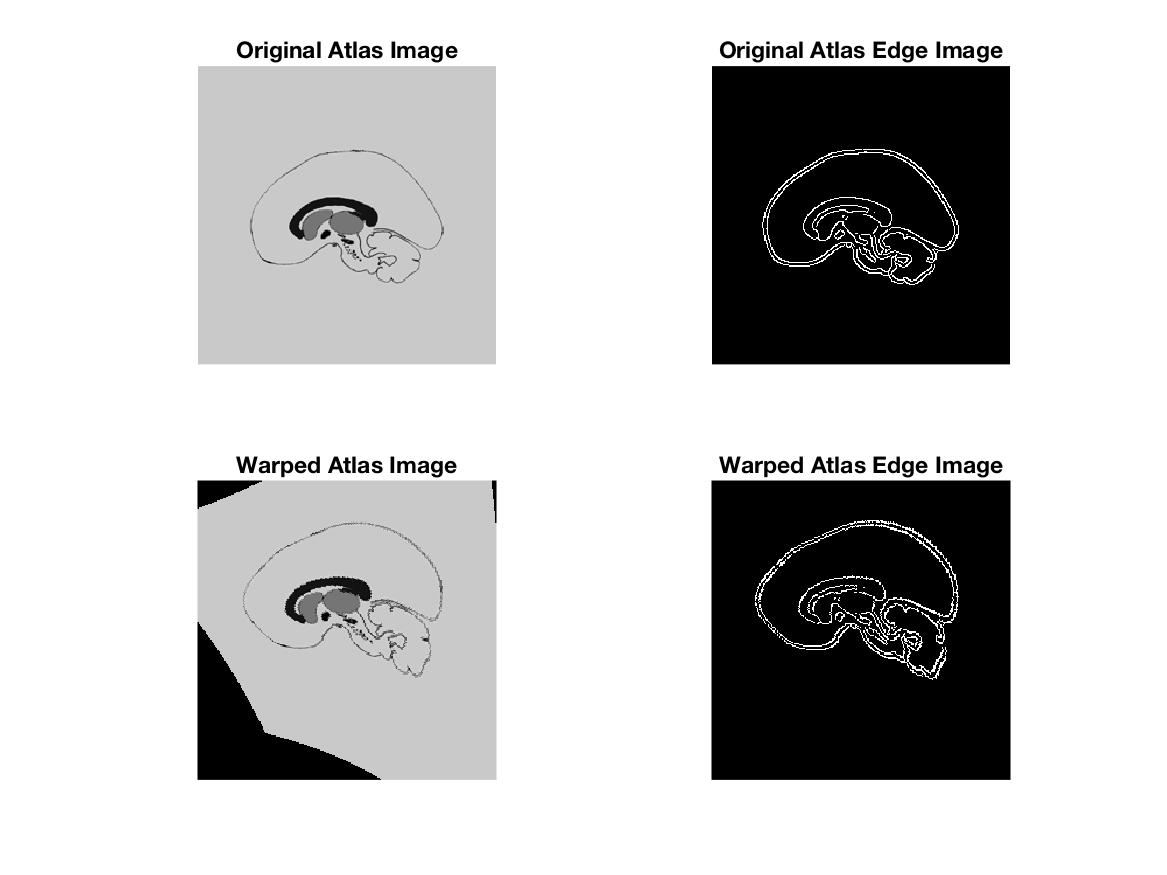
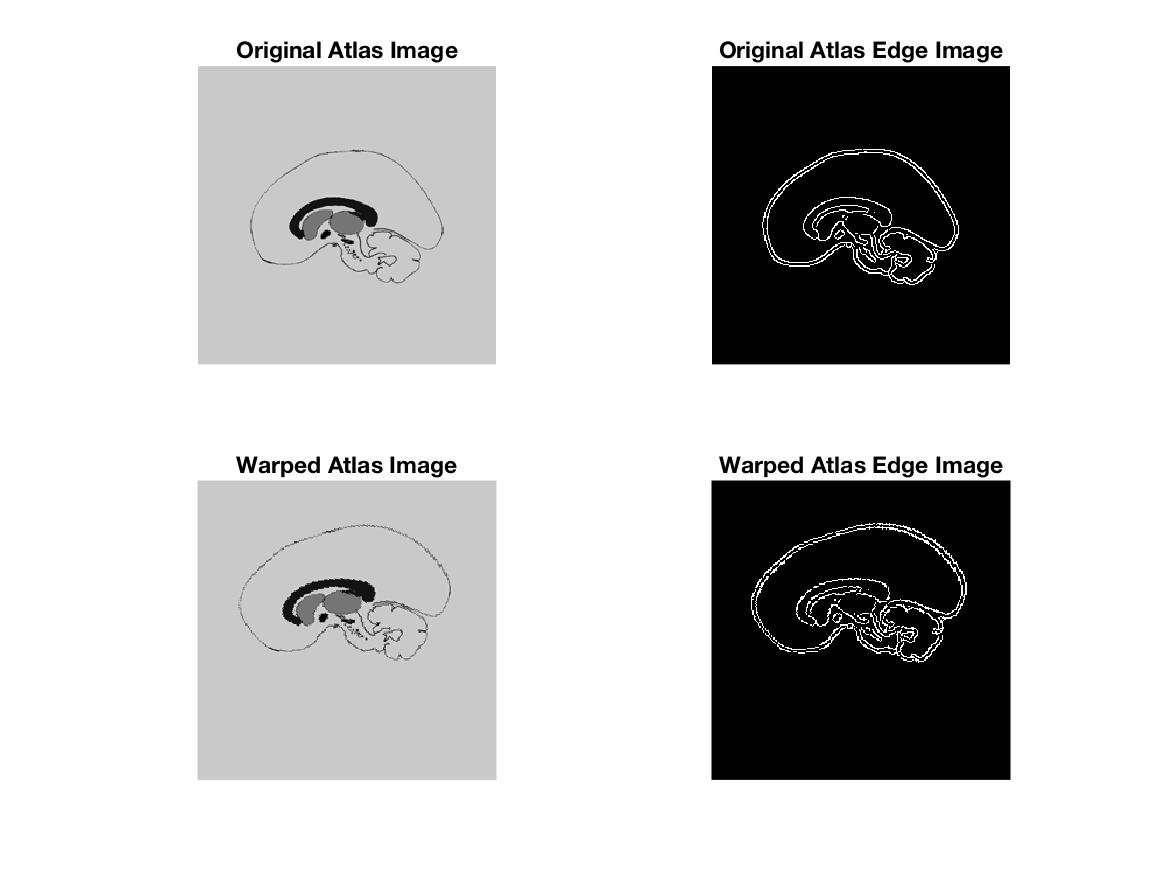
updates to control points and image registration

diff --git a/hw3/hw3.m b/hw3/hw3.m
@@ -6,7 +6,7 @@ load('Brain.mat');
 
 %% Control Point Selection.
 % Use the cpselect() function to select 8 control points. We will use these
-% points to solve for parameters A and B, column vectors containing the
+% points to solve for parameters A and B, Numn vectors containing the
 % transformation matrices.
 
 % Use Atlas image as the MOVING and Brain image as the FIXED params.
@@ -37,16 +37,19 @@ B = inverse * Y_w;
 fprintf('The parameters of matrix A are:\n%.4f\n%.4f\n%.4f\n%.4f\n', A(1), A(2), A(3), A(4));
 fprintf('The parameters of matrix B are:\n%.4f\n%.4f\n%.4f\n%.4f\n', B(1), B(2), B(3), B(4));
 %% Affine Transformation.
-
 % Simultaneously produce transformed image and edge image.
 AtlasEdges = edge(Atlas, 'canny');
 
-% Retrieve row and column size of the image for looping purposes.
-[row, col] = size(Atlas);
-newAtlas = zeros(row, col);
-newAtlasEdges = zeros(row, col);
-for i = 1:row
-    for j = 1:col
+% "Grab" the background color and store it to set as the value for unmapped
+% pixels in the output image.
+bgColor = Atlas(1,1);
+
+% Retrieve M and Numn size of the image for looping purposes.
+[M, N] = size(Atlas);
+newAtlas = zeros(M, N);
+newAtlasEdges = zeros(M, N);
+for i = 1:M
+    for j = 1:N
         % Calculate (x,y) location in the atlas image (xOut, yOut)
         % for the given pixel in the MRI image (i,j).
         % (i, j) is the desired position in the unwarped image.
@@ -56,9 +59,16 @@ for i = 1:row
         % Use the nearest neighbor approach to interpolate grey values.
         x = round(x);
         y = round(y);
-        if (x > 0 && y > 0 && x <= row && y <= col)
+        
+        % Only add the index-able values to the new image (non-negative and
+        % within dimensions). Otherwise, set the pixel equal to the
+        % background color. This will prevent unmapped pixels in the
+        % border.
+        if (x > 0 && y > 0 && x <= M && y <= N)
             newAtlas(j, i) = Atlas(y, x);
             newAtlasEdges(j, i) = AtlasEdges(y, x);
+        else
+            newAtlas(j,i) = bgColor;
         end
     end
 end
@@ -76,32 +86,42 @@ saveas(fig1, 'hw3_fig1.jpg')
 X_w_calc = D * A;
 Y_w_calc = D * B;
 
+% Calculate sum-squared error on both coordinate matrices.
 sse_x = sum((X_w_calc - X_u).^2);
 sse_y = sum((Y_w_calc - Y_u).^2);
 avgDist = sqrt(sse_x + sse_y) / 8;
 fprintf('The average Euclidean distance is %.4f\n', avgDist);
 
 %% Create Edge Image of Atlas Image Superimposed on transformed MRI image.
+newAtlasEdges = edge(newAtlas, 'canny');
 overlayImage = imoverlay(Brain, newAtlasEdges);
 fig2 = figure(2);
 imshow(overlayImage); title('Contoured Brain Image')
 saveas(fig2, 'hw3_fig2.jpg');
 
-%% Extra Credit: Create a Superfused image.
-
-% Set the factor to 0.5 to mix the two images equally.
+%% Extra Credit: Image Fusion.
+% Set the factor to 0.6 to mix the two images equally.
 alphaFactor = 0.6;
 
 bgImg = double(Brain);
 fgImg = double(newAtlas);
 
+% Adjust image transparency by a factor of alpha.
 bgImageAlpha = (1 - alphaFactor) .* bgImg;
 fgImageAlpha = alphaFactor .* fgImg;
 
+% Combine the two images.
 fusedImg = bgImageAlpha + fgImageAlpha;
 
 fig3 = figure(3);
-imshow(uint8(fusedImg)); title('Superfused Image');
+imshow(uint8(fusedImg)); title('Fused Image');
 saveas(fig3, 'hw3_fig3.jpg');
 
-%% Extra Credit: Create an Edge Image to Superimpose (green/blue).
+%% Extra Credit: Create a Green/Blue Color Overlay.
+% Specify Brain image as green and Atlas image as blue.
+colorChannels = [0 1 2];
+
+colorOverlayImg = imfuse(Brain, newAtlas, 'ColorChannels', colorChannels);
+fig4 = figure(4);
+imshow(colorOverlayImg); title('Color Overlay Image');
+saveas(fig4, 'hw3_fig4.jpg');
